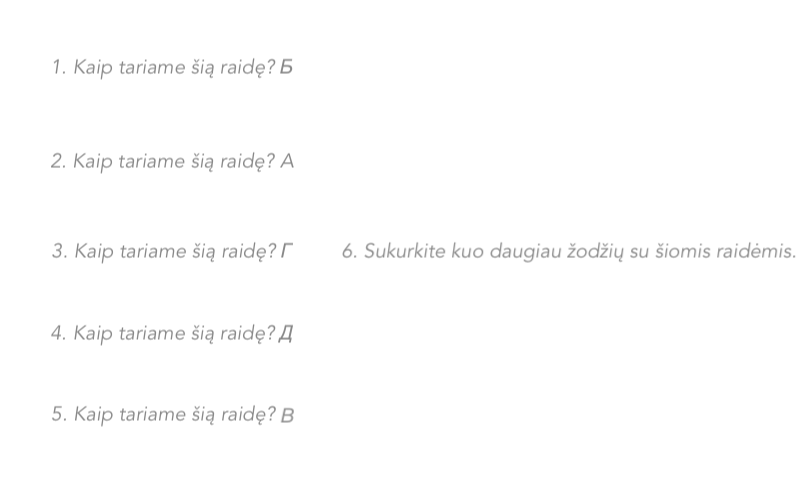
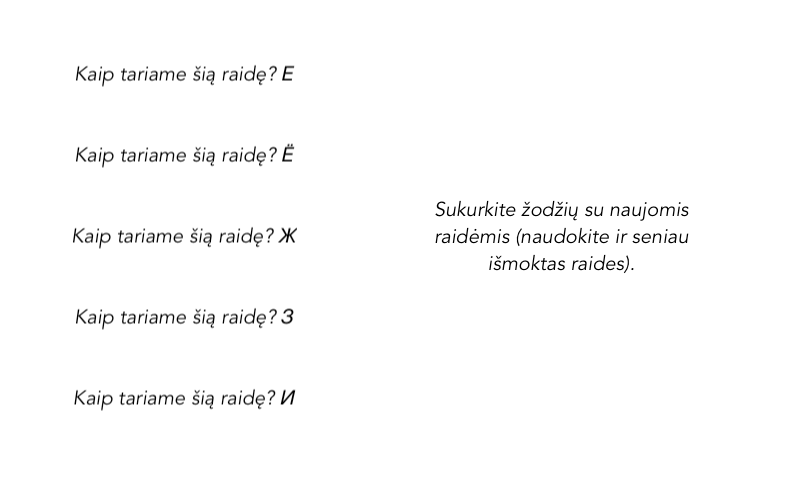
Add files via upload

diff --git a/uzduotys.html b/uzduotys.html
@@ -425,16 +425,19 @@
     <h1 style="margin-top: 80px;"><i class="fa-solid fa-list-check"></i> Užduotys</h1>
     <!-- <p style="width: 100%; height: 50px; display: flex; justify-content: center; align-items: center; border: 1px solid lightgrey; padding: 15px; border-radius: 25px;"><i class="fa-regular fa-folder-open" style="margin-right: 5px; animation: empty 5s linear infinite;"></i> Užduočių nėra.</p> -->
     <!-- <p style="width: 100%; height: 50px; display: flex; justify-content: center; align-items: center; border: 1px solid lightgrey; padding: 15px; border-radius: 25px;"><i class="fa-regular fa-circle-check" style="margin-right: 5px;"></i> Visos užduotys atliktos.</p> -->
-    <div class="uzduotis"><p style="margin: 0;"><i><b><i class="fa-solid fa-list-check"></i> Užduotis</b></i></p><p style="margin: 0;"><i><b><i class="fa-solid fa-clock"></i> Atlikti iki: </b></i>11-04</p><p style="margin: 0;">"Rusų k. pradmenys 1 dalis"</p><p style="position: absolute; top: -26px; right: -1px; background-color: cornflowerblue; color: white; border-radius: 0 25px 0 25px; width: 80px; height: 60px; display: flex; justify-content: center; align-items: center; transition: 0.2s; font-size: 25px;" onclick="uzduotis()" id="uzd"><i class="fa-regular fa-circle-check" style="color: white;"></i></p></div>
+    <div class="uzduotis"><p style="margin: 0;"><i><b><i class="fa-solid fa-list-check"></i> Užduotis</b></i></p><p style="margin: 0;"><i><b><i class="fa-solid fa-clock"></i> Atlikti iki: </b></i>11-18</p><p style="margin: 0;">"Rusų k. pradmenys 3 dalis"</p><p style="position: absolute; top: -26px; right: -1px; background-color: cornflowerblue; color: white; border-radius: 0 25px 0 25px; width: 80px; height: 60px; display: flex; justify-content: center; align-items: center; transition: 0.2s; font-size: 25px;" onclick="uzduotis2()" id="uzd2"><i class="fa-regular fa-circle-check" style="color: white;"></i></p></div>
+    <div class="uzduotis"><p style="margin: 0;"><i><b><i class="fa-solid fa-list-check"></i> Užduotis</b></i></p><p style="margin: 0;"><i><b><i class="fa-solid fa-clock"></i> Atlikti iki: </b></i>11-18</p><p style="margin: 0;">"Rusų k. pradmenys 2 dalis"</p><p style="position: absolute; top: -26px; right: -1px; background-color: cornflowerblue; color: white; border-radius: 0 25px 0 25px; width: 80px; height: 60px; display: flex; justify-content: center; align-items: center; transition: 0.2s; font-size: 25px;" onclick="uzduotis()" id="uzd"><i class="fa-regular fa-circle-check" style="color: white;"></i></p></div>
     <p style="text-align: left; display: inline;" id="pad" onclick="padaryta()"><i class="fa-solid fa-user-check"></i> Atliktos užduotys</p>
     <p style="text-align: left; display: inline;" id="pada"><i class="fa-solid fa-chevron-down" style="transition: 0.3s;" onclick="padaryta()" id="chevron"></i></p>
     <p style="text-align: left; display: none;" id="pad2" onclick="padaryta2()"><i class="fa-solid fa-user-check"></i> Atliktos užduotys</p>
     <p style="text-align: left; display: none;" id="pada2"><i class="fa-solid fa-chevron-down" style="transition: 0.3s;" onclick="padaryta2()" id="chevron2"></i></p>
     <div style="opacity: 0; display: none; transition: 0.3s;" id="padarytiUzd">
+    <div class="uzduotisAtl"><p style="margin: 0;"><i><b><i class="fa-solid fa-list-check"></i> Užduotis</b></i></p><p style="margin: 0;"><i><p style="margin: 0;">"Rusų k. pradmenys 1 dalis"</p></div>
     <div class="uzduotisAtl"><p style="margin: 0;"><i><b><i class="fa-solid fa-list-check"></i> Užduotis</b></i></p><p style="margin: 0;">"Matematika - apskritimo ilgis"</p></div>
     <div class="uzduotisAtl"><p style="margin: 0;"><i><b><i class="fa-solid fa-list-check"></i> Užduotis</b></i></p><p style="margin: 0;">"Matematika - perimetrai"</p></div>
     </div>
     <div style="width: 100%; height: 100%; position: fixed; top: 0; right: -100%; bottom: 0; background-color: white; z-index: 6; transition: 0.3s;" id="atlikimas"><h1 style="text-align: left; padding-left:  15px; margin-top: 40px;">Užduotis</h1><img src="uzduotis.png" alt="Užduotis" style="width: 300px; border: 2px solid cornflowerblue; border-radius: 25px; background-color: snow;"><p style="text-align: left; padding-left: 15px;"><i><i class="fa-solid fa-magnifying-glass"></i> Sprendimas:</i></p><p style="text-align: left; padding-left: 15px;">1. ...</p><p style="text-align: left; padding-left: 15px;">2. ...</p><p style="text-align: left; padding-left: 15px;">3. ...</p><p style="text-align: left; padding-left: 15px;">4. ...</p><p style="text-align: left; padding-left: 15px;">5. ...</p><p style="text-align: left; padding-left: 15px;">6. ...</p><button style="display: block; background-color: cornflowerblue; border-radius: 25px; width: 170px; height: 50px; font-size: 17px; border: 2px solid white; margin: 10px auto; transition: 0.2s; color: white;" onclick="atlikoDabar()" id="atl"><i class="fa-regular fa-circle-check" style="color: white;"></i> Atlikta</button><button style="display: block; background-color: cornflowerblue; border-radius: 25px; width: 170px; height: 50px; font-size: 17px; border: 2px solid white; margin: 10px auto; transition: 0.2s; color: white;" onclick="atlikoVeliau()" id="vel"><i class="fa-regular fa-clock" style="color: white;"></i> Atidėti</button></div>
+    <div style="width: 100%; height: 100%; position: fixed; top: 0; right: -100%; bottom: 0; background-color: white; z-index: 6; transition: 0.3s;" id="atlikimas2"><h1 style="text-align: left; padding-left:  15px; margin-top: 40px;">Užduotis</h1><img src="uzduotis2.png" alt="Užduotis" style="width: 300px; border: 2px solid cornflowerblue; border-radius: 25px; background-color: snow;"><p style="text-align: left; padding-left: 15px;"><i><i class="fa-solid fa-magnifying-glass"></i> Sprendimas:</i></p><p style="text-align: left; padding-left: 15px;">Žodžiai: ...</p><button style="display: block; background-color: cornflowerblue; border-radius: 25px; width: 170px; height: 50px; font-size: 17px; border: 2px solid white; margin: 10px auto; transition: 0.2s; color: white;" onclick="atlikoDabar2()" id="atl2"><i class="fa-regular fa-circle-check" style="color: white;"></i> Atlikta</button><button style="display: block; background-color: cornflowerblue; border-radius: 25px; width: 170px; height: 50px; font-size: 17px; border: 2px solid white; margin: 10px auto; transition: 0.2s; color: white;" onclick="atlikoVeliau2()" id="vel2"><i class="fa-regular fa-clock" style="color: white;"></i> Atidėti</button></div>
     <div id="complete"><p><i class="fa-regular fa-circle-check"></i> Užduotis atlikta. Parodyk ją mokytojui.</p></div>
     <div id="complete2"><p><i class="fa-regular fa-circle-check"></i> Užduotis atidėta atlikimui vėliau.</p></div>
     <div id="logouted"><p><i class="fa-regular fa-circle-check"></i> Sesija baigta.</p></div>
@@ -537,6 +540,67 @@
             }, 200);
             setTimeout(() => {
                 document.getElementById("atlikimas").style.right = "-100%";
+            }, 500);
+            setTimeout(() => {
+                document.getElementById("complete2").style.top = "10px";
+                document.getElementById("copyPupulis").style.opacity = "0";
+                document.getElementById("christmas").style.opacity = "0";
+            }, 500);
+            setTimeout(() => {
+                document.getElementById("complete2").style.top = "-150px";
+                document.getElementById("copyPupulis").style.opacity = "1";
+                document.getElementById("christmas").style.opacity = "1";
+            }, 5500);
+        }
+        function uzduotis2() {
+            document.getElementById("uzd2").style.borderRadius = "25px";
+            document.getElementById("uzd2").style.transform = "scale(0.8)";
+            setTimeout(() => {
+                document.getElementById("uzd2").style.borderRadius = "0 25px 0 25px";
+                document.getElementById("uzd2").style.transform = "scale(1)";
+            }, 200);
+            setTimeout(() => {
+                document.getElementById("atlikimas2").style.right = "0";
+            }, 500);
+        }
+        function atlikoDabar2() {
+            document.getElementById("complete").style.top = "-150px";
+            document.getElementById("complete2").style.top = "-150px";
+            document.getElementById("copyPupulis").style.opacity = "1";
+            document.getElementById("christmas").style.opacity = "1";
+            document.getElementById("atl2").style.transform = "scale(0.8)";
+            document.getElementById("uzd").style.pointerEvents = "none";
+            setTimeout(() => {
+                document.getElementById("atl2").style.transform = "scale(1.0)";
+            }, 200);
+            setTimeout(() => {
+                document.getElementById("atlikimas2").style.right = "-100%";
+            }, 500);
+            setTimeout(() => {
+                document.getElementById("complete").style.top = "10px";
+                document.getElementById("copyPupulis").style.opacity = "0";
+                document.getElementById("christmas").style.opacity = "0";
+            }, 500);
+            setTimeout(() => {
+                document.getElementById("complete").style.top = "-150px";
+                document.getElementById("copyPupulis").style.opacity = "1";
+                document.getElementById("christmas").style.opacity = "1";
+            }, 5500);
+            setTimeout(() => {
+                document.getElementById("uzd2").style.opacity = "0.2";
+            }, 800);
+        }
+        function atlikoVeliau2() {
+            document.getElementById("complete").style.top = "-150px";
+            document.getElementById("complete2").style.top = "-150px";
+            document.getElementById("copyPupulis").style.opacity = "1";
+            document.getElementById("christmas").style.opacity = "1";
+            document.getElementById("vel2").style.transform = "scale(0.8)";
+            setTimeout(() => {
+                document.getElementById("vel2").style.transform = "scale(1.0)";
+            }, 200);
+            setTimeout(() => {
+                document.getElementById("atlikimas2").style.right = "-100%";
             }, 500);
             setTimeout(() => {
                 document.getElementById("complete2").style.top = "10px";

diff --git a/pagrindinis.html b/pagrindinis.html
@@ -463,16 +463,21 @@
     <p style="width: 100%; height: 50px; display: flex; justify-content: center; align-items: center; border: 1px solid lightgrey; padding: 15px; border-radius: 25px;"><i class="fa-regular fa-folder-open" style="margin-right: 5px; animation: empty 5s linear infinite;"></i> Pažymių nėra.</p>
     <p style="text-align: left; padding-left: 15px; margin-bottom: 0; margin-top: 10px;"><i class="fa-solid fa-pen-nib"></i> Namų darbai:</p>
     <!-- <p style="width: 100%; height: 50px; display: flex; justify-content: center; align-items: center; border: 1px solid lightgrey; padding: 15px; border-radius: 25px;"><i class="fa-regular fa-folder-open" style="margin-right: 5px; animation: empty 5s linear infinite;"></i> Namų darbų nėra.</p> -->
-    <div class="pamoka" style="border-color: red;"><div class="pamokaInfo" style="background-color: red;"><p style="font-size: 30px; margin-top: 10px;">11 04</p><p style="margin-top: -27px;">Atlikti iki</p></div><p style="text-align: left; margin-top: 0; margin-bottom: 0; color: red;"><b><i style="color: red;"><i class="fa-solid fa-chalkboard-user" style="color: red;"></i> Dalykas: </i></b>Rusų k.</p><p style="text-align: left; margin-top: 0; margin-bottom: 0; color: red;"><b><i style="color: red;"><i class="fa-solid fa-clock" style="color: red;"></i> Pamokos data:</i></b> 10 30</p><p style="text-align: left; margin-top: 0; margin-bottom: 0; color: red;"><b><i style="color: red;"><i class="fa-solid fa-pen-nib" style="color: red;"></i> Namų darbas: </i></b>Atlikti užduotį "Rusų k. pradmenys 1 dalis".</p></div>
-    <p style="color: red; margin-top: -10px; text-align: left; padding-left: 10px; animation: veluoja 2s linear infinite;"><i class="fa-solid fa-circle-exclamation" style="color: red;"></i> Vėluojama atlikti.</p>
+    <div class="pamoka"><div class="pamokaInfo"><p style="font-size: 30px; margin-top: 10px;">11 18</p><p style="margin-top: -27px;">Atlikti iki</p></div><p style="text-align: left; margin-top: 0; margin-bottom: 0;"><b><i><i class="fa-solid fa-chalkboard-user"></i> Dalykas: </i></b>Rusų k.</p><p style="text-align: left; margin-top: 0; margin-bottom: 0;"><b><i><i class="fa-solid fa-clock"></i> Pamokos data:</i></b> 11 11</p><p style="text-align: left; margin-top: 0; margin-bottom: 0;"><b><i><i class="fa-solid fa-pen-nib"></i> Namų darbas: </i></b>Atlikti užduotį "Rusų k. pradmenys 3 dalis".</p></div>
+    <div class="pamoka"><div class="pamokaInfo"><p style="font-size: 30px; margin-top: 10px;">11 18</p><p style="margin-top: -27px;">Atlikti iki</p></div><p style="text-align: left; margin-top: 0; margin-bottom: 0;"><b><i><i class="fa-solid fa-chalkboard-user"></i> Dalykas: </i></b>Rusų k.</p><p style="text-align: left; margin-top: 0; margin-bottom: 0;"><b><i><i class="fa-solid fa-clock"></i> Pamokos data:</i></b> 11 11</p><p style="text-align: left; margin-top: 0; margin-bottom: 0;"><b><i><i class="fa-solid fa-pen-nib"></i> Namų darbas: </i></b>Atlikti užduotį "Rusų k. pradmenys 2 dalis".</p></div>
+    <!-- <p style="color: red; margin-top: -10px; text-align: left; padding-left: 10px; animation: veluoja 2s linear infinite;"><i class="fa-solid fa-circle-exclamation" style="color: red;"></i> Vėluojama atlikti.</p> -->
     <p style="text-align: left; padding-left: 15px; margin-bottom: 0; margin-top: 10px;"><i class="fa-solid fa-list-check"></i> Užduotys:</p>
     <!-- <p style="width: 100%; height: 50px; display: flex; justify-content: center; align-items: center; border: 1px solid lightgrey; padding: 15px; border-radius: 25px;"><i class="fa-regular fa-folder-open" style="margin-right: 5px; animation: empty 5s linear infinite;"></i> Užduočių nėra.</p> -->
-    <div class="uzduotis" style="border-color: red;"><p style="margin: 0; color: red;"><i><b style="color: red;"><i class="fa-solid fa-list-check" style="color: red;"></i> Užduotis</b></i></p><p style="margin: 0; color: red;"><i><b style="color: red;"><i style="color: red;" class="fa-solid fa-clock"></i> Atlikti iki: </b></i>11-04</p><p style="margin: 0; color: red;">"Rusų k. pradmenys 1 dalis"</p><p style="position: absolute; top: -26px; right: -1px; background-color: red; color: white; border-radius: 0 25px 0 25px; width: 80px; height: 60px; display: flex; justify-content: center; align-items: center; transition: 0.2s; font-size: 25px;" onclick="tasksOpen()" id="uzd"><i class="fa-solid fa-eye" style="color: white;"></i></p></div>
-    <p style="color: red; margin-top: -10px; text-align: left; padding-left: 10px; animation: veluoja 2s linear infinite;"><i class="fa-solid fa-circle-exclamation" style="color: red;"></i> Vėluojama atlikti.</p>
+    <div class="uzduotis"><p style="margin: 0;"><i><b><i class="fa-solid fa-list-check"></i> Užduotis</b></i></p><p style="margin: 0;"><i><b><i class="fa-solid fa-clock"></i> Atlikti iki: </b></i>11-18</p><p style="margin: 0;">"Rusų k. pradmenys 3 dalis"</p><p style="position: absolute; top: -26px; right: -1px; background-color: cornflowerblue; color: white; border-radius: 0 25px 0 25px; width: 80px; height: 60px; display: flex; justify-content: center; align-items: center; transition: 0.2s; font-size: 25px;" onclick="tasksOpen()" id="uzd"><i class="fa-solid fa-eye" style="color: white;"></i></p></div>
+    <div class="uzduotis"><p style="margin: 0;"><i><b><i class="fa-solid fa-list-check"></i> Užduotis</b></i></p><p style="margin: 0;"><i><b><i class="fa-solid fa-clock"></i> Atlikti iki: </b></i>11-18</p><p style="margin: 0;">"Rusų k. pradmenys 2 dalis"</p><p style="position: absolute; top: -26px; right: -1px; background-color: cornflowerblue; color: white; border-radius: 0 25px 0 25px; width: 80px; height: 60px; display: flex; justify-content: center; align-items: center; transition: 0.2s; font-size: 25px;" onclick="tasksOpen()" id="uzd"><i class="fa-solid fa-eye" style="color: white;"></i></p></div>
+    <!-- <p style="color: red; margin-top: -10px; text-align: left; padding-left: 10px; animation: veluoja 2s linear infinite;"><i class="fa-solid fa-circle-exclamation" style="color: red;"></i> Vėluojama atlikti.</p> -->
     <p style="text-align: left; padding-left: 15px; margin-bottom: 0; margin-top: 10px;"><i class="fa-solid fa-comment"></i> Komentarai:</p>
-    <p style="width: 100%; height: 50px; display: flex; justify-content: center; align-items: center; border: 1px solid lightgrey; padding: 15px; border-radius: 25px;"><i class="fa-regular fa-folder-open" style="margin-right: 5px; animation: empty 5s linear infinite;"></i> Komentarų nėra.</p>
+    <div class="pamoka"><div class="pamokaInfo"><p style="font-size: 30px; margin-top: 10px;">11 11</p><p style="margin-top: -27px;">Rusų k.</p></div><p style="text-align: left; margin-top: 0; margin-bottom: 0;"><b><i><i class="fa-solid fa-i-cursor"></i> Tipas:</i></b> <span style="color: cornflowerblue;">Komentaras</span></p><p style="text-align: left; margin-top: 0; margin-bottom: 0;"><b><i><i class="fa-solid fa-comment"></i> Komentaras: Per pamoką atliko namų darbų užduotis.</i></b></p></div>
+    <!-- <p style="width: 100%; height: 50px; display: flex; justify-content: center; align-items: center; border: 1px solid lightgrey; padding: 15px; border-radius: 25px;"><i class="fa-regular fa-folder-open" style="margin-right: 5px; animation: empty 5s linear infinite;"></i> Komentarų nėra.</p> -->
     <p style="text-align: left; padding-left: 15px; margin-bottom: 0; margin-top: 10px;"><i class="fa-solid fa-clipboard-user"></i> Lankomumas:</p>
     <!-- <p style="width: 100%; height: 50px; display: flex; justify-content: center; align-items: center; border: 1px solid lightgrey; padding: 15px; border-radius: 25px;"><i class="fa-regular fa-folder-open" style="margin-right: 5px; animation: empty 5s linear infinite;"></i> Praėjusių pamokų nėra.</p> -->
+    <div class="lankymas"><p><i class="fa-solid fa-circle" style="color: green;"></i> 11 11 Rusų k.</p></div>
+    <div class="lankymas"><p><i class="fa-solid fa-circle" style="color: green;"></i> 11 11 Rusų k.</p></div>
     <div class="lankymas"><p><i class="fa-solid fa-circle" style="color: red;"></i> 11 04 Rusų k.</p></div>
     <button style="width: 50%; height: 30px; background-color: cornflowerblue; box-shadow: 0 0 15px cornflowerblue; border: none; border-radius: 25px 25px 0 0; font-size: 17px; position: fixed; transition: 0.2s; left: 25%; right: 25%; bottom: 69px; color: white; z-index: 1; border: 2px solid white; border-bottom-color: cornflowerblue;" id="vadovas" onclick="vadoveliaiOpen()"><i class="fa-solid fa-book" style="color: white;"></i> Vadovėliai</button>
     <button style="width: 50%; height: 30px; background-color: cornflowerblue; box-shadow: 0 0 15px cornflowerblue; border: none; border-radius: 25px 25px 0 0; font-size: 17px; position: fixed; left: 25%; right: 25%; bottom: 69px; display: none; color: white; z-index: 1; border: 2px solid white; border-bottom-color: cornflowerblue;" id="vadovas2" onclick="vadoveliaiClose()"><i class="fa-solid fa-book" style="color: white;"></i> Vadovėliai</button>
@@ -509,11 +514,7 @@
             document.getElementById("copyPupulis").style.opacity = "0";
             document.getElementById("metai").style.opacity = "0";
             document.getElementById("christmas").style.opacity = "0";
-            document.getElementById("vadoveliai").style.transform = "scale(0)";
-            document.getElementById("vadoveliai").style.opacity = "0";
-            setTimeout(() => {
-                document.getElementById("vadoveliai").style.display = "none";
-            }, 300);
+            document.getElementById("vadoveliai").style.bottom = "-200px";
             setTimeout(() => {
                 document.getElementById("vadovas").style.display = "inline-block";
             }, 400);

diff --git a/namu-darbai.html b/namu-darbai.html
@@ -376,12 +376,14 @@
     <h1 style="margin-top: 80px;"><i class="fa-solid fa-pen-nib"></i> Namų darbai</h1>
     <!-- <p style="width: 100%; height: 50px; display: flex; justify-content: center; align-items: center; border: 1px solid lightgrey; padding: 15px; border-radius: 25px;"><i class="fa-regular fa-folder-open" style="margin-right: 5px; animation: empty 5s linear infinite;"></i> Namų darbų nėra.</p> -->
     <!-- <p style="width: 100%; height: 50px; display: flex; justify-content: center; align-items: center; border: 1px solid lightgrey; padding: 15px; border-radius: 25px;"><i class="fa-regular fa-circle-check" style="margin-right: 5px;"></i> Visi namų darbai atlikti.</p> -->
-    <div class="pamoka"><div class="pamokaInfo"><p style="font-size: 30px; margin-top: 10px;">11 04</p><p style="margin-top: -27px;">Atlikti iki</p></div><p style="text-align: left; margin-top: 0; margin-bottom: 0;"><b><i><i class="fa-solid fa-chalkboard-user"></i> Dalykas: </i></b>Rusų k.</p><p style="text-align: left; margin-top: 0; margin-bottom: 0;"><b><i><i class="fa-solid fa-clock"></i> Pamokos data:</i></b> 10 30</p><p style="text-align: left; margin-top: 0; margin-bottom: 0;"><b><i><i class="fa-solid fa-pen-nib"></i> Namų darbas: </i></b>Atlikti užduotį "Rusų k. pradmenys 1 dalis".</p></div>
+    <div class="pamoka"><div class="pamokaInfo"><p style="font-size: 30px; margin-top: 10px;">11 18</p><p style="margin-top: -27px;">Atlikti iki</p></div><p style="text-align: left; margin-top: 0; margin-bottom: 0;"><b><i><i class="fa-solid fa-chalkboard-user"></i> Dalykas: </i></b>Rusų k.</p><p style="text-align: left; margin-top: 0; margin-bottom: 0;"><b><i><i class="fa-solid fa-clock"></i> Pamokos data:</i></b> 11 11</p><p style="text-align: left; margin-top: 0; margin-bottom: 0;"><b><i><i class="fa-solid fa-pen-nib"></i> Namų darbas: </i></b>Atlikti užduotį "Rusų k. pradmenys 3 dalis".</p></div>
+    <div class="pamoka"><div class="pamokaInfo"><p style="font-size: 30px; margin-top: 10px;">11 18</p><p style="margin-top: -27px;">Atlikti iki</p></div><p style="text-align: left; margin-top: 0; margin-bottom: 0;"><b><i><i class="fa-solid fa-chalkboard-user"></i> Dalykas: </i></b>Rusų k.</p><p style="text-align: left; margin-top: 0; margin-bottom: 0;"><b><i><i class="fa-solid fa-clock"></i> Pamokos data:</i></b> 11 11</p><p style="text-align: left; margin-top: 0; margin-bottom: 0;"><b><i><i class="fa-solid fa-pen-nib"></i> Namų darbas: </i></b>Atlikti užduotį "Rusų k. pradmenys 2 dalis".</p></div>
     <p style="text-align: left; display: inline;" id="pad" onclick="padaryta()"><i class="fa-solid fa-user-check"></i> Atlikti namų darbai</p>
     <p style="text-align: left; display: inline;" id="pada"><i class="fa-solid fa-chevron-down" style="transition: 0.3s;" onclick="padaryta()" id="chevron"></i></p>
     <p style="text-align: left; display: none;" id="pad2" onclick="padaryta2()"><i class="fa-solid fa-user-check"></i> Atlikti namų darbai</p>
     <p style="text-align: left; display: none;" id="pada2"><i class="fa-solid fa-chevron-down" style="transition: 0.3s;" onclick="padaryta2()" id="chevron2"></i></p>
     <div style="opacity: 0; display: none; transition: 0.3s;" id="padarytiNd">
+    <div class="pamoka"><div class="pamokaInfo"><p style="font-size: 30px; margin-top: 10px;">11 04</p><p style="margin-top: -27px;">Atlikti iki</p></div><p style="text-align: left; margin-top: 0; margin-bottom: 0;"><b><i><i class="fa-solid fa-chalkboard-user"></i> Dalykas: </i></b>Rusų k.</p><p style="text-align: left; margin-top: 0; margin-bottom: 0;"><b><i><i class="fa-solid fa-clock"></i> Pamokos data:</i></b> 10 30</p><p style="text-align: left; margin-top: 0; margin-bottom: 0;"><b><i><i class="fa-solid fa-pen-nib"></i> Namų darbas: </i></b>Atlikti užduotį "Rusų k. pradmenys 1 dalis".</p></div>
     <div class="pamoka"><div class="pamokaInfo"><p style="font-size: 30px; margin-top: 10px;">09 24</p><p style="margin-top: -27px;">Atlikti iki</p></div><p style="text-align: left; margin-top: 0; margin-bottom: 0;"><b><i><i class="fa-solid fa-chalkboard-user"></i> Dalykas: </i></b>Matematika</p><p style="text-align: left; margin-top: 0; margin-bottom: 0;"><b><i><i class="fa-solid fa-clock"></i> Pamokos data:</i></b> 09 07</p><p style="text-align: left; margin-top: 0; margin-bottom: 0;"><b><i><i class="fa-solid fa-pen-nib"></i> Namų darbas: </i></b>Atlikti užduotį "Matematika - apskritimo ilgis".</p></div>
     <div class="pamoka"><div class="pamokaInfo"><p style="font-size: 30px; margin-top: 10px;">09 24</p><p style="margin-top: -27px;">Atlikti iki</p></div><p style="text-align: left; margin-top: 0; margin-bottom: 0;"><b><i><i class="fa-solid fa-chalkboard-user"></i> Dalykas: </i></b>Matematika</p><p style="text-align: left; margin-top: 0; margin-bottom: 0;"><b><i><i class="fa-solid fa-clock"></i> Pamokos data:</i></b> 09 07</p><p style="text-align: left; margin-top: 0; margin-bottom: 0;"><b><i><i class="fa-solid fa-pen-nib"></i> Namų darbas: </i></b>Atlikti užduotį "Matematika - perimetrai".</p></div>
     </div>

diff --git a/pamokos.html b/pamokos.html
@@ -374,6 +374,8 @@
     <p style="position: absolute; top: 67px; left: 65px; opacity: 0; transition: 1s;" id="vardas">Ieva Kasparavičiūtė</p>
     <h1 style="margin-top: 80px;"><i class="fa-solid fa-list-check"></i> Pamokos</h1>
     <!-- <p style="width: 100%; height: 50px; display: flex; justify-content: center; align-items: center; border: 1px solid lightgrey; padding: 15px; border-radius: 25px;"><i class="fa-regular fa-folder-open" style="margin-right: 5px; animation: empty 5s linear infinite;"></i> Pamokų nėra.</p> -->
+    <div class="pamoka"><div class="pamokaInfo"><p style="font-size: 30px; margin-top: 10px;">11 11</p><p style="margin-top: -27px;">Rusų k.</p></div><p style="text-align: left; margin-top: 0; margin-bottom: 0;"><b><i><i class="fa-solid fa-quote-right"></i> Tema:</i></b> 3. Pamoka - mokomės abėcėlę.</p><p style="text-align: left; margin-top: 0; margin-bottom: 0;"><b><i><i class="fa-solid fa-clipboard-list"></i> Klasės darbas:</i></b> Mokomės raides ЙКЛМНОПРСТ ir kuriame iš raidžių žodžius.</p><p style="text-align: left; margin-top: 0; margin-bottom: 0;"><b><i><i class="fa-solid fa-pen-nib"></i> Namų darbas: </i></b>Atlikti užduotį "Rusų k. pradmenys 3 dalis".</p></div>
+    <div class="pamoka"><div class="pamokaInfo"><p style="font-size: 30px; margin-top: 10px;">11 11</p><p style="margin-top: -27px;">Rusų k.</p></div><p style="text-align: left; margin-top: 0; margin-bottom: 0;"><b><i><i class="fa-solid fa-quote-right"></i> Tema:</i></b> 2. Pamoka - mokomės abėcėlę.</p><p style="text-align: left; margin-top: 0; margin-bottom: 0;"><b><i><i class="fa-solid fa-clipboard-list"></i> Klasės darbas:</i></b> Mokomės raides EЁЖЗИ ir kuriame iš raidžių žodžius.</p><p style="text-align: left; margin-top: 0; margin-bottom: 0;"><b><i><i class="fa-solid fa-pen-nib"></i> Namų darbas: </i></b>Atlikti užduotį "Rusų k. pradmenys 2 dalis".</p></div>
     <div class="pamoka"><div class="pamokaInfo"><p style="font-size: 30px; margin-top: 10px;">10 30</p><p style="margin-top: -27px;">Rusų k.</p></div><p style="text-align: left; margin-top: 0; margin-bottom: 0;"><b><i><i class="fa-solid fa-quote-right"></i> Tema:</i></b> 1. Pamoka - mokomės abėcėlę.</p><p style="text-align: left; margin-top: 0; margin-bottom: 0;"><b><i><i class="fa-solid fa-clipboard-list"></i> Klasės darbas:</i></b> Mokomės raides АБВГД ir kuriame iš raidžių žodžius.</p><p style="text-align: left; margin-top: 0; margin-bottom: 0;"><b><i><i class="fa-solid fa-pen-nib"></i> Namų darbas: </i></b>Atlikti užduotį "Rusų k. pradmenys 1 dalis".</p></div>
     <div class="pamoka"><div class="pamokaInfo"><p style="font-size: 30px; margin-top: 10px;">10 16</p><p style="margin-top: -27px;">Matematika</p></div><p style="text-align: left; margin-top: 0; margin-bottom: 0;"><b><i><i class="fa-solid fa-quote-right"></i> Tema:</i></b> Matematikos namų darbai</p><p style="text-align: left; margin-top: 0; margin-bottom: 0;"><b><i><i class="fa-solid fa-clipboard-list"></i> Klasės darbas:</i></b> Matematika TAU: 56 psl.: 136. - 149., 57 psl.: 150. - 161.</p></div>
     <div class="pamoka"><div class="pamokaInfo"><p style="font-size: 30px; margin-top: 10px;">09 17</p><p style="margin-top: -27px;">Matematika</p></div><p style="text-align: left; margin-top: 0; margin-bottom: 0;"><b><i><i class="fa-solid fa-quote-right"></i> Tema:</i></b> Matematikos namų darbai</p><p style="text-align: left; margin-top: 0; margin-bottom: 0;"><b><i><i class="fa-solid fa-clipboard-list"></i> Klasės darbas:</i></b> Matematika TAU: 19 psl.: 17., 18., 19., 20., 21. Atrask: 59 psl.: 6., 7., 8.</p><p style="text-align: left; margin-top: 0; margin-bottom: 0;"><b><i><i class="fa-solid fa-pen-nib"></i> Namų darbas: </i></b>Atlikti užduotį "Matematika - apskritimo ilgis".</p></div>

diff --git a/lankomumas.html b/lankomumas.html
@@ -356,9 +356,9 @@
     <p style="position: absolute; top: 67px; left: 65px; opacity: 0; transition: 1s;" id="vardas">Ieva Kasparavičiūtė</p>
     <h1 style="margin-top: 80px;"><i class="fa-solid fa-clipboard-user"></i> Lankomumas</h1>
     <div style="width: 100%; height: 50px; display: flex; justify-content: center; align-items: center; margin-bottom: 10px; margin-top: 20px;">
-    <p style="color: white; font-size: 25px; position: absolute;">80%</p>
-    <div style="width: 80%; height: 50px; border: 2px solid white; background-color: green; border-radius: 25px 0 0 25px; margin: 0;"></div>
-    <div style="width: 20%; height: 50px; border: 2px solid white; background-color: red; border-radius: 0 25px 25px 0; margin: 0;"></div>
+    <p style="color: white; font-size: 25px; position: absolute;">86%</p>
+    <div style="width: 86%; height: 50px; border: 2px solid white; background-color: green; border-radius: 25px 0 0 25px; margin: 0;"></div>
+    <div style="width: 14%; height: 50px; border: 2px solid white; background-color: red; border-radius: 0 25px 25px 0; margin: 0;"></div>
     </div>
     <!-- <p style="width: 100%; height: 50px; display: flex; justify-content: center; align-items: center; border: 1px solid lightgrey; padding: 15px; border-radius: 25px;"><i class="fa-regular fa-folder-open" style="margin-right: 5px; animation: empty 5s linear infinite;"></i> Praėjusių pamokų nėra.</p> -->
     <p style="text-align: left; display: inline;" id="pad" onclick="padaryta()"><i class="fa-solid fa-user-check"></i> Praėjusios pamokos</p>
@@ -366,6 +366,8 @@
     <p style="text-align: left; display: none;" id="pad2" onclick="padaryta2()"><i class="fa-solid fa-user-check"></i> Praėjusios pamokos</p>
     <p style="text-align: left; display: none;" id="pada2"><i class="fa-solid fa-chevron-down" style="transition: 0.3s;" onclick="padaryta2()" id="chevron2"></i></p>
     <div style="opacity: 0; display: none; transition: 0.3s;" id="padarytiNd">
+        <div class="lankymas"><p><i class="fa-solid fa-circle" style="color: green;"></i> 11 11 Rusų k.</p></div>
+        <div class="lankymas"><p><i class="fa-solid fa-circle" style="color: green;"></i> 11 11 Rusų k.</p></div>
         <div class="lankymas"><p><i class="fa-solid fa-circle" style="color: red;"></i> 11 04 Rusų k.</p></div>
         <div class="lankymas"><p><i class="fa-solid fa-circle" style="color: green;"></i> 10 30 Rusų k.</p></div>
         <div class="lankymas"><p><i class="fa-solid fa-circle" style="color: green;"></i> 10 16 Matematika</p></div>

diff --git a/komentarai.html b/komentarai.html
@@ -374,6 +374,7 @@
     <p style="position: absolute; top: 67px; left: 65px; opacity: 0; transition: 1s;" id="vardas">Ieva Kasparavičiūtė</p>
     <h1 style="margin-top: 80px;"><i class="fa-solid fa-comment"></i> Komentarai</h1>
     <!-- <p style="width: 100%; height: 50px; display: flex; justify-content: center; align-items: center; border: 1px solid lightgrey; padding: 15px; border-radius: 25px;"><i class="fa-regular fa-folder-open" style="margin-right: 5px; animation: empty 5s linear infinite;"></i> Komentarų nėra.</p> -->
+    <div class="pamoka"><div class="pamokaInfo"><p style="font-size: 30px; margin-top: 10px;">11 11</p><p style="margin-top: -27px;">Rusų k.</p></div><p style="text-align: left; margin-top: 0; margin-bottom: 0;"><b><i><i class="fa-solid fa-i-cursor"></i> Tipas:</i></b> <span style="color: cornflowerblue;">Komentaras</span></p><p style="text-align: left; margin-top: 0; margin-bottom: 0;"><b><i><i class="fa-solid fa-comment"></i> Komentaras: Per pamoką atliko namų darbų užduotis.</i></b></p></div>
     <div class="pamoka"><div class="pamokaInfo"><p style="font-size: 30px; margin-top: 10px;">09 22</p><p style="margin-top: -27px;">Matematika</p></div><p style="text-align: left; margin-top: 0; margin-bottom: 0;"><b><i><i class="fa-solid fa-i-cursor"></i> Tipas:</i></b> <span style="color: green;">Pagyrimas</span></p><p style="text-align: left; margin-top: 0; margin-bottom: 0;"><b><i><i class="fa-solid fa-comment"></i> Komentaras: </i></b>Gerai atliko užduotis &#128522;</p></div>
     <div id="logouted"><p><i class="fa-regular fa-circle-check"></i> Sesija baigta.</p></div>
     <p style="position: absolute; right: 5px; top: -16px; z-index: 4; background-color: snow; border-radius: 0 0 0 5px; transition: 0.2s ease-out;" id="copyPupulis">Pupulio pamokos &copy;</p>
